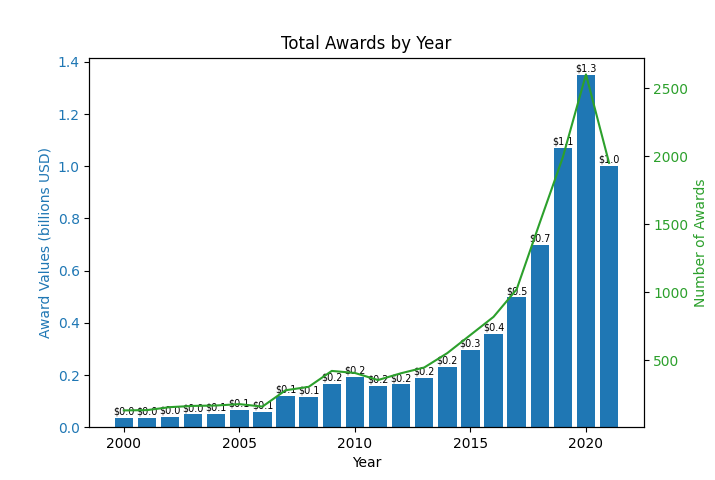
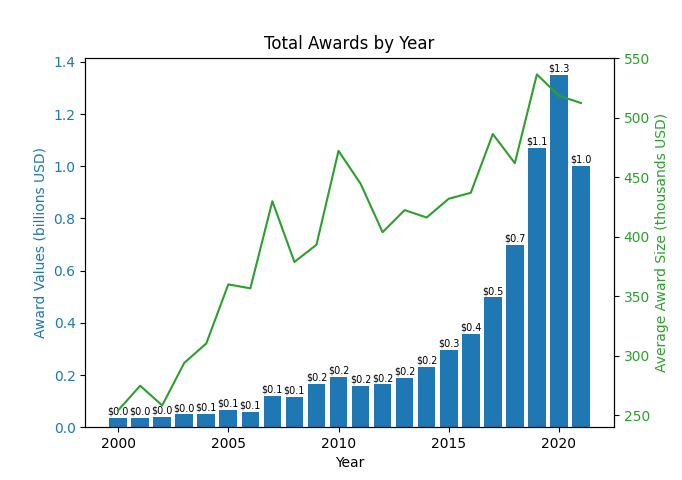
changed award number to avg award size for figure, fix #3

diff --git a/table2_figure.py b/table2_figure.py
@@ -22,7 +22,7 @@ def get_by_year_data():
         for entry in raw_data:
             years.append(int(entry[0]))
             awards.append(int(entry[1]))
-            values.append(float(entry[2])/1e9)
+            values.append(float(entry[2]))
 
     return years, awards, values
 
@@ -36,16 +36,16 @@ def plot_by_year():
     color = 'tab:blue'
     ax1.set_xlabel('Year')
     ax1.set_ylabel('Award Values (billions USD)', color=color)
-    bar = ax1.bar(years, values, color=color) #yerr=errorbar
+    bar = ax1.bar(years, [v/1e9 for v in values], color=color) #yerr=errorbar
     ax1.tick_params(axis='y', labelcolor=color)
     ax1.bar_label(bar, fmt='$%.1f', padding=1, size='x-small')
     ax2 = ax1.twinx()
 
-    # award number
+    # award size (avg) = total value/num awards
     color = 'tab:green'
     ax2.set_xlabel('Year')
-    ax2.set_ylabel('Number of Awards', color=color)
-    ax2.plot(years, awards, color=color) #yerr=errorbar
+    ax2.set_ylabel('Average Award Size (thousands USD)', color=color)
+    ax2.plot(years, [values[i]/1e3/awards[i] for i in range(len(years))], color=color) #yerr=errorbar
     ax2.tick_params(axis='y', labelcolor=color)
 
     plt.title('Total Awards by Year')
